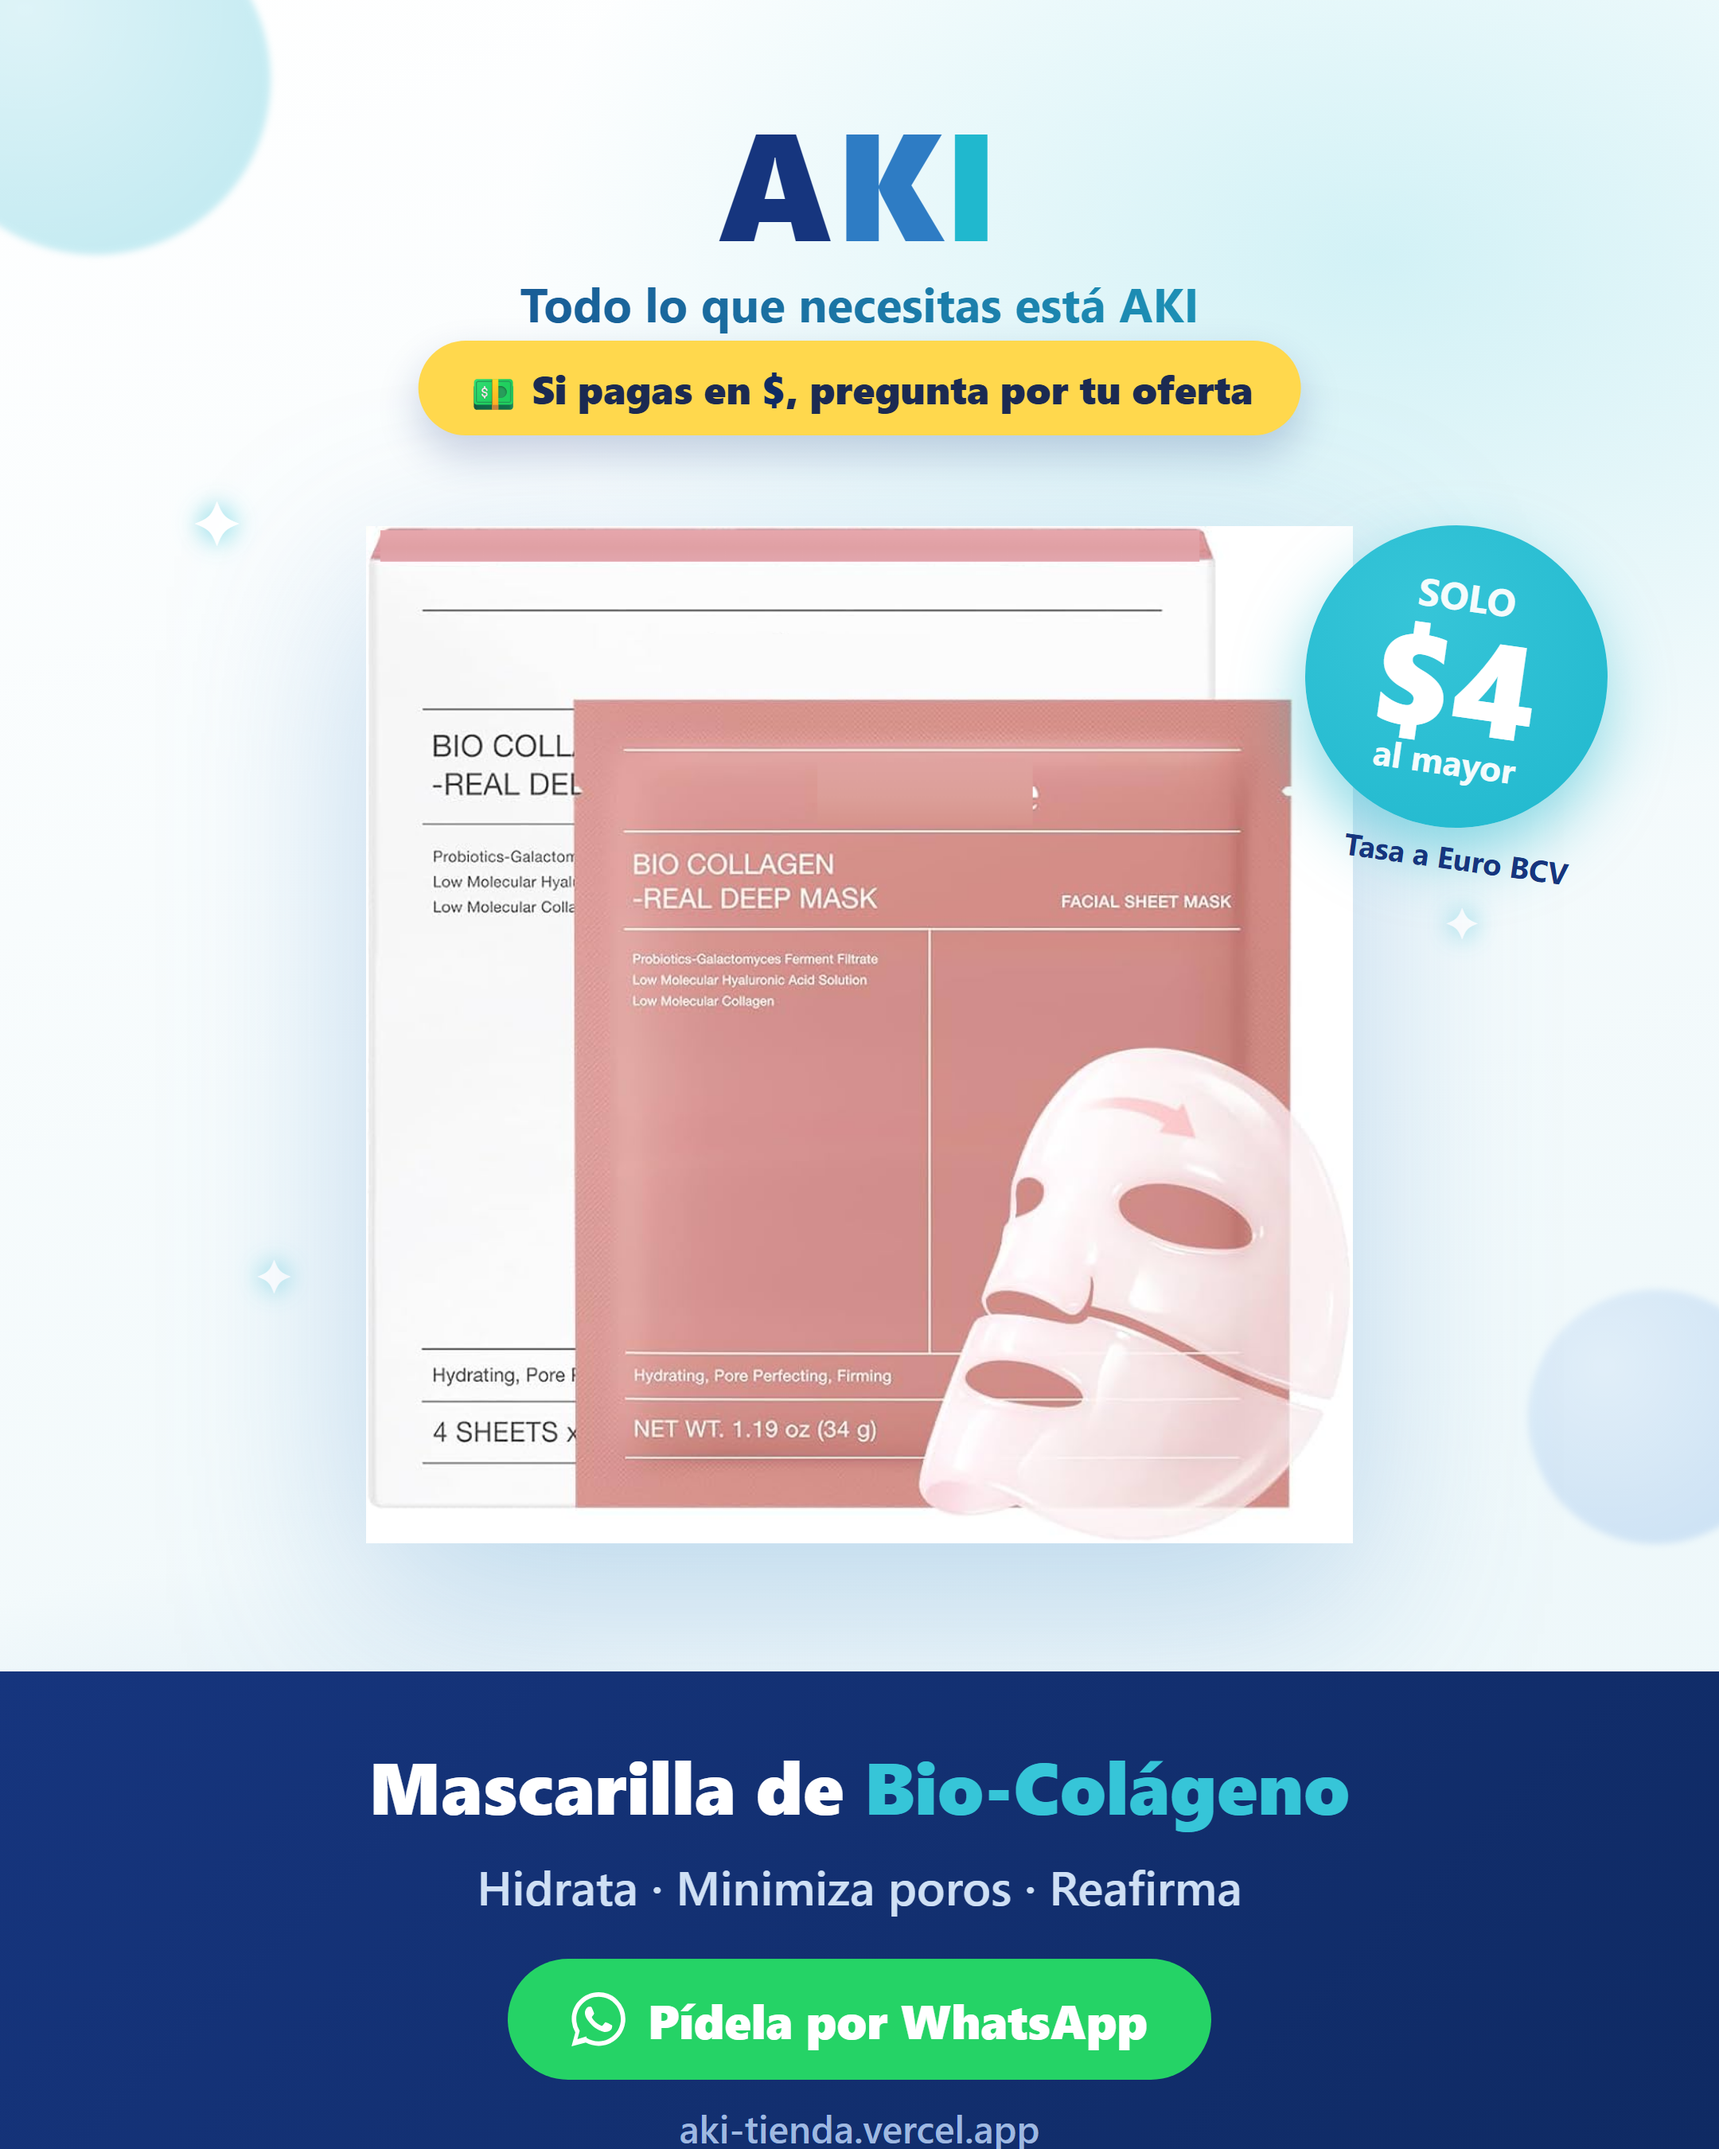
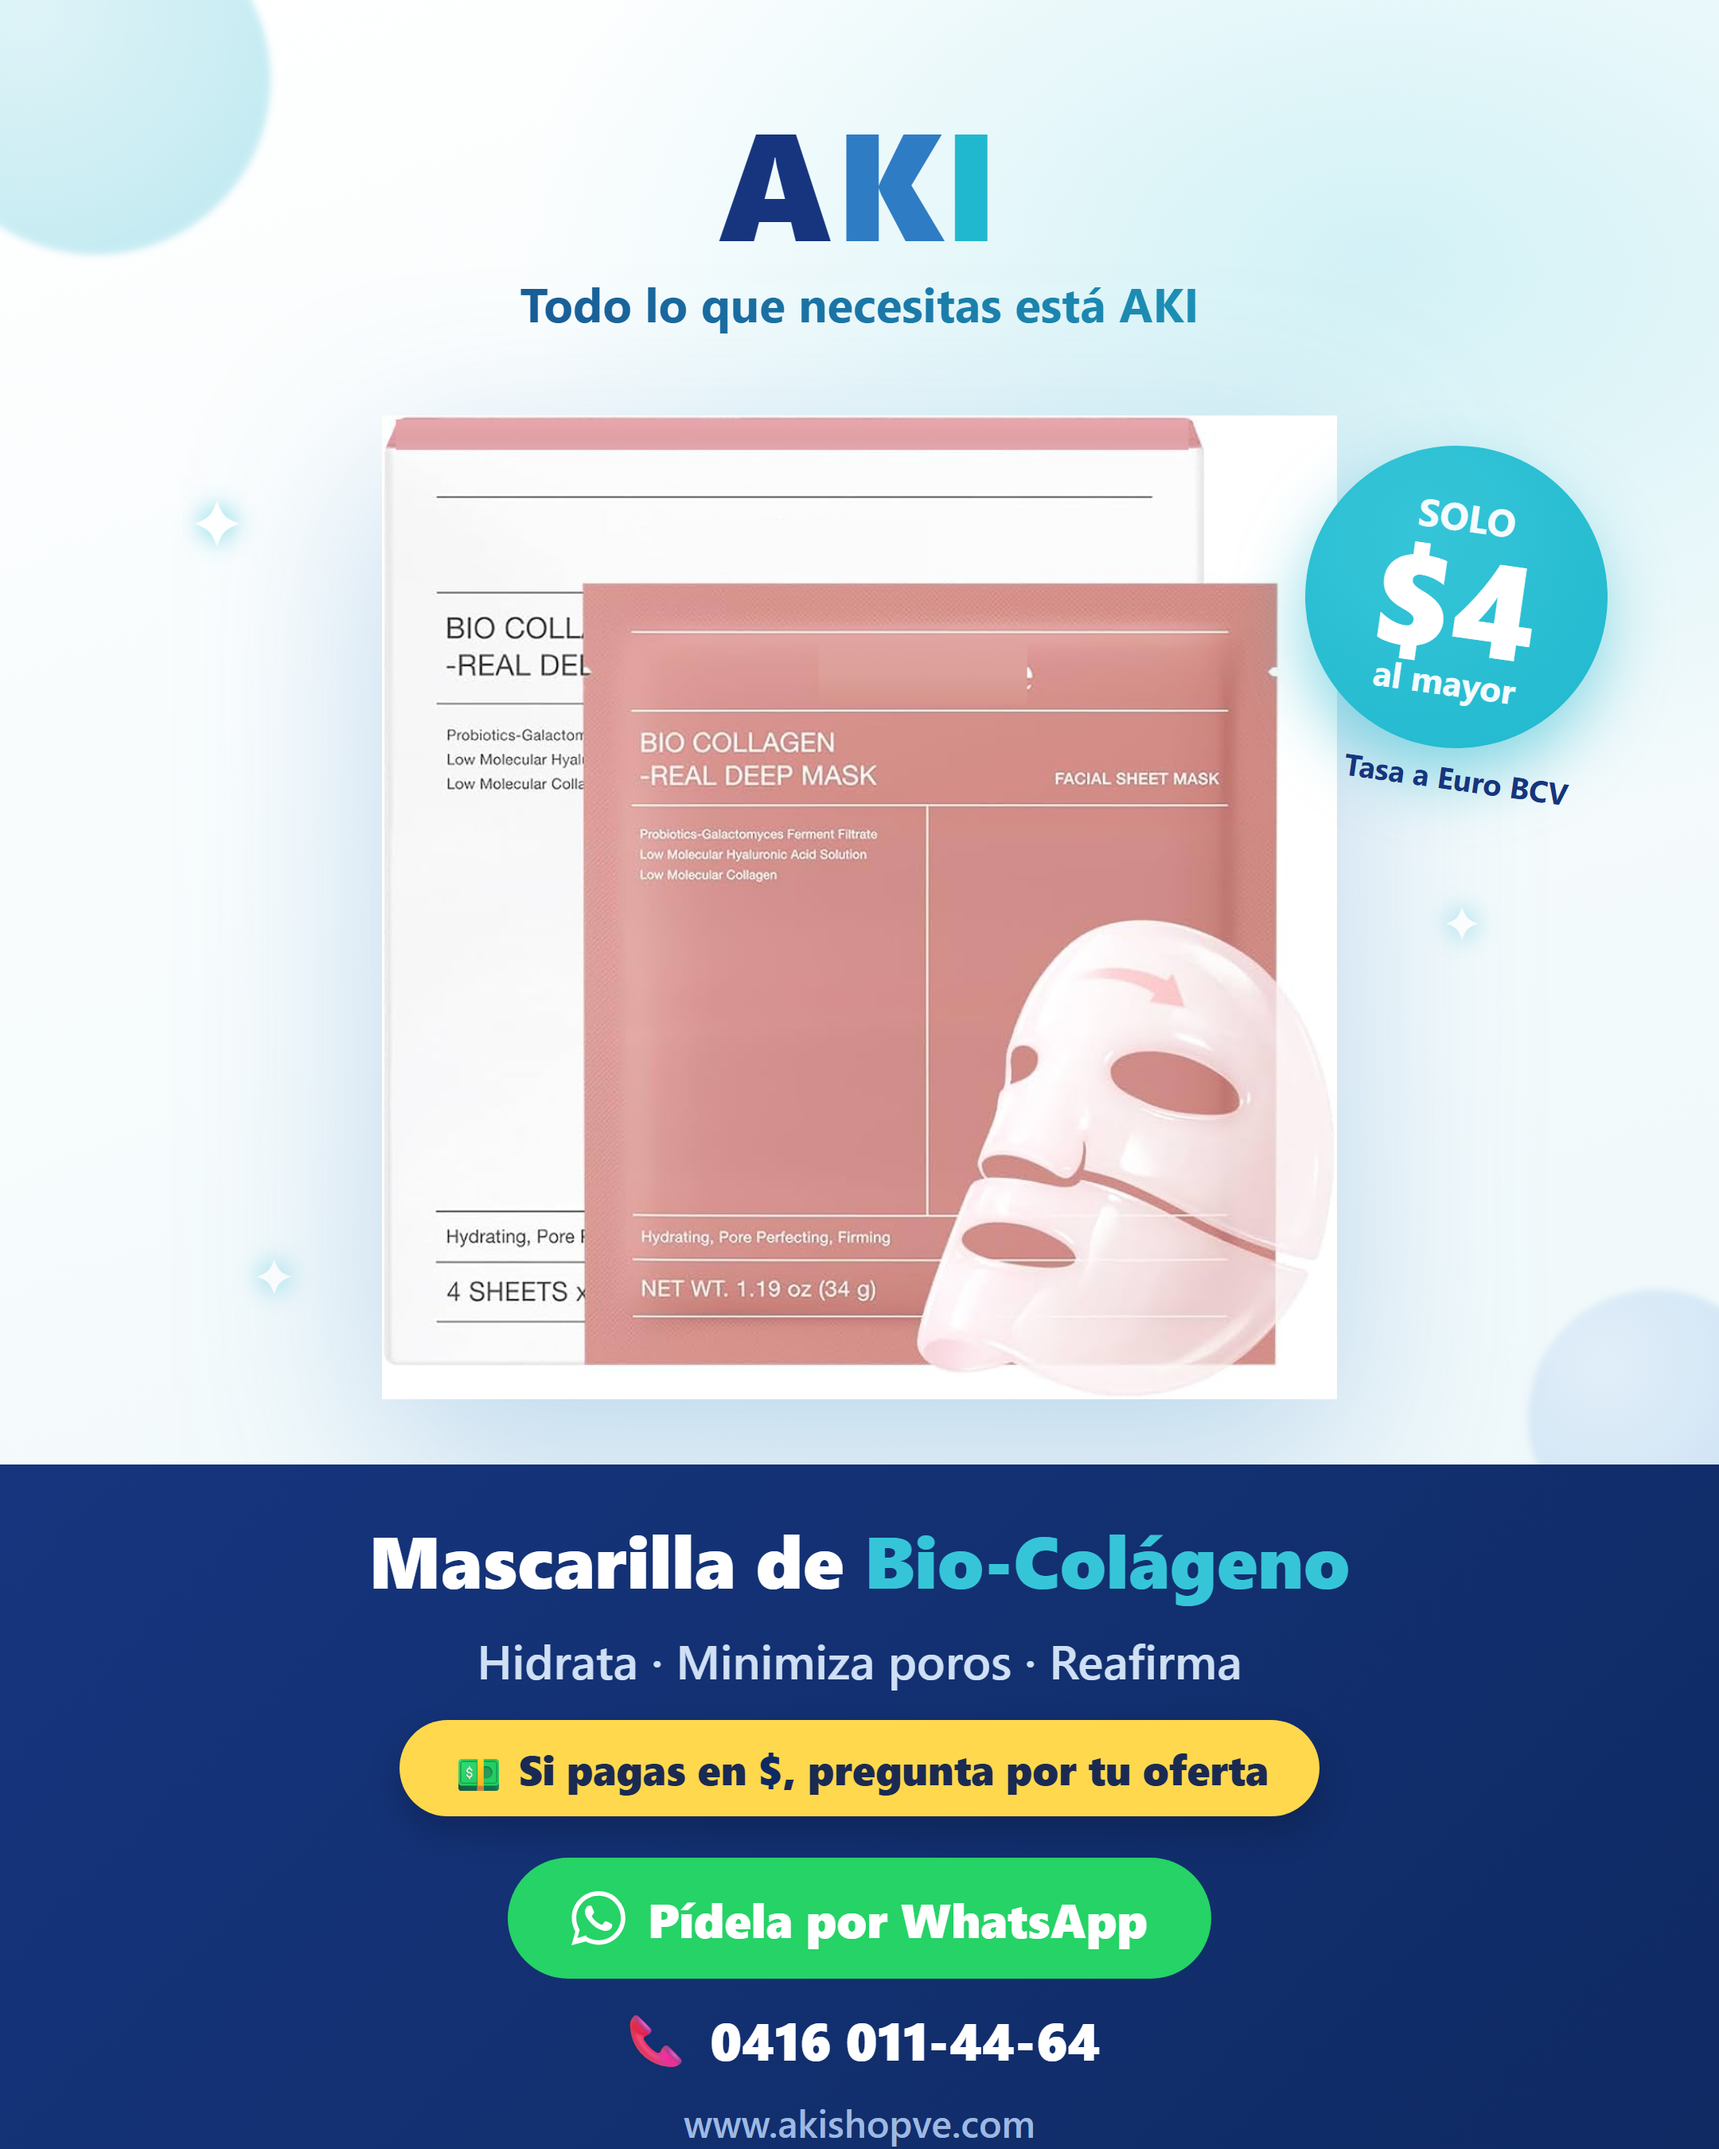
Post IG mascarilla: web akishopve.com + telefono + oferta (#4)

diff --git a/assets/instagram/mascarilla-post-mayor.html b/assets/instagram/mascarilla-post-mayor.html
@@ -31,8 +31,8 @@
     -webkit-background-clip:text;background-clip:text;color:transparent}
 
   /* product photo */
-  .stage{position:absolute;top:300px;left:50%;transform:translateX(-50%);
-    width:620px;height:700px;display:flex;align-items:center;justify-content:center}
+  .stage{position:absolute;top:250px;left:50%;transform:translateX(-50%);
+    width:600px;height:640px;display:flex;align-items:center;justify-content:center}
   .prodimg{max-width:100%;max-height:100%;object-fit:contain;
     filter:drop-shadow(0 38px 60px rgba(46,124,196,.28))}
 
@@ -40,7 +40,7 @@
   .spark{position:absolute;color:#fff;font-size:40px;text-shadow:0 0 16px rgba(54,197,216,.8)}
 
   /* price badge */
-  .price{position:absolute;top:330px;right:70px;width:190px;height:190px;border-radius:50%;
+  .price{position:absolute;top:280px;right:70px;width:190px;height:190px;border-radius:50%;
     background:radial-gradient(circle at 35% 30%,var(--light),var(--teal));
     box-shadow:0 18px 40px rgba(32,184,206,.5);transform:rotate(8deg);
     display:flex;flex-direction:column;align-items:center;justify-content:center;color:#fff;z-index:5}
@@ -49,9 +49,12 @@
   .price .u{font-size:22px;font-weight:700;opacity:.95;margin-top:-4px}
 
   /* bottom banner */
-  .banner{position:absolute;left:0;right:0;bottom:0;height:300px;
+  .banner{position:absolute;left:0;right:0;bottom:0;height:430px;
     background:linear-gradient(135deg,var(--navy),#0f2a63);color:#fff;
-    padding:46px 70px 0;text-align:center}
+    padding:34px 70px 0;text-align:center}
+  .phone{margin-top:16px;font-size:33px;font-weight:800;color:#fff;
+    display:flex;align-items:center;justify-content:center;gap:12px}
+  .phone .ic{color:#36C5D8}
   .pname{font-size:46px;font-weight:800;line-height:1.1}
   .pname span{color:var(--light)}
   .bens{margin-top:18px;font-size:30px;font-weight:600;color:#cfe0f5}
@@ -62,14 +65,13 @@
   .site{margin-top:14px;font-size:24px;color:#9fb8e0;font-weight:600}
   .note{margin-top:8px;font-size:20px;color:#7f9bc9;font-style:italic;font-weight:500}
 
-  /* letrero oferta en $ */
-  .offer{position:absolute;top:214px;left:50%;transform:translateX(-50%);z-index:6;
-    background:#FFD84D;color:#1b2a52;font-weight:800;font-size:25px;
-    padding:13px 30px;border-radius:999px;white-space:nowrap;
-    box-shadow:0 12px 26px rgba(22,53,126,.22)}
+  /* letrero oferta en $ (dentro del banner, encima del WhatsApp) */
+  .offer{display:inline-block;background:#FFD84D;color:#1b2a52;font-weight:800;font-size:26px;
+    padding:13px 32px;border-radius:999px;white-space:nowrap;margin-top:18px;
+    box-shadow:0 10px 22px rgba(0,0,0,.20)}
   .offer b{color:#0f2a63}
   /* tasa pequeña bajo el precio */
-  .tasa{position:absolute;top:526px;right:70px;width:190px;text-align:center;z-index:6;
+  .tasa{position:absolute;top:476px;right:70px;width:190px;text-align:center;z-index:6;
     font-size:19px;font-weight:700;color:#16357E;transform:rotate(8deg)}
 </style>
 </head>
@@ -91,8 +93,6 @@
     <img class="prodimg" src="biodance-clean.png" alt="Mascarilla Bio Collagen Real Deep Mask">
   </div>
 
-  <div class="offer">💵 Si pagas en <b>$</b>, pregunta por tu oferta</div>
-
   <div class="price">
     <div class="small">SOLO</div>
     <div class="big">$4</div>
@@ -103,11 +103,13 @@
   <div class="banner">
     <div class="pname">Mascarilla de <span>Bio-Colágeno</span></div>
     <div class="bens">Hidrata · Minimiza poros · Reafirma</div>
+    <div class="offer">💵 Si pagas en <b>$</b>, pregunta por tu oferta</div>
     <div class="cta">
       <svg viewBox="0 0 24 24"><path d="M.057 24l1.687-6.163a11.867 11.867 0 01-1.587-5.946C.16 5.335 5.495 0 12.05 0a11.817 11.817 0 018.413 3.488 11.824 11.824 0 013.48 8.414c-.003 6.557-5.338 11.892-11.893 11.892a11.9 11.9 0 01-5.688-1.448L.057 24zm6.597-3.807c1.676.995 3.276 1.591 5.392 1.592 5.448 0 9.886-4.434 9.889-9.885.002-5.462-4.415-9.89-9.881-9.892-5.452 0-9.887 4.434-9.889 9.884a9.86 9.86 0 001.51 5.26l-.999 3.648 3.978-1.207zm11.387-5.464c-.074-.124-.272-.198-.57-.347-.297-.149-1.758-.868-2.031-.967-.272-.099-.47-.149-.669.149-.198.297-.768.967-.941 1.165-.173.198-.347.223-.644.074-.297-.149-1.255-.462-2.39-1.475-.883-.788-1.48-1.761-1.653-2.059-.173-.297-.018-.458.13-.606.134-.133.298-.347.446-.521.149-.174.198-.298.298-.496.099-.198.05-.372-.025-.521-.074-.149-.669-1.611-.916-2.206-.242-.579-.487-.501-.669-.51l-.57-.01c-.198 0-.52.074-.792.372-.272.297-1.04 1.016-1.04 2.479 0 1.462 1.065 2.875 1.213 3.074.149.198 2.096 3.2 5.077 4.487.709.306 1.262.489 1.694.626.712.226 1.36.194 1.872.118.571-.085 1.758-.719 2.006-1.413.248-.694.248-1.289.173-1.413z"/></svg>
       Pídela por WhatsApp
     </div>
-    <div class="site">aki-tienda.vercel.app</div>
+    <div class="phone"><span class="ic">📞</span> 0416 011-44-64</div>
+    <div class="site">www.akishopve.com</div>
     <div class="note">* Al mayor: pedido mínimo 6 unidades</div>
   </div>
 </div>

diff --git a/assets/instagram/mascarilla-post.html b/assets/instagram/mascarilla-post.html
@@ -31,8 +31,8 @@
     -webkit-background-clip:text;background-clip:text;color:transparent}
 
   /* product photo */
-  .stage{position:absolute;top:300px;left:50%;transform:translateX(-50%);
-    width:620px;height:700px;display:flex;align-items:center;justify-content:center}
+  .stage{position:absolute;top:250px;left:50%;transform:translateX(-50%);
+    width:600px;height:640px;display:flex;align-items:center;justify-content:center}
   .prodimg{max-width:100%;max-height:100%;object-fit:contain;
     filter:drop-shadow(0 38px 60px rgba(46,124,196,.28))}
 
@@ -40,7 +40,7 @@
   .spark{position:absolute;color:#fff;font-size:40px;text-shadow:0 0 16px rgba(54,197,216,.8)}
 
   /* price badge */
-  .price{position:absolute;top:330px;right:70px;width:190px;height:190px;border-radius:50%;
+  .price{position:absolute;top:280px;right:70px;width:190px;height:190px;border-radius:50%;
     background:radial-gradient(circle at 35% 30%,var(--light),var(--teal));
     box-shadow:0 18px 40px rgba(32,184,206,.5);transform:rotate(8deg);
     display:flex;flex-direction:column;align-items:center;justify-content:center;color:#fff;z-index:5}
@@ -49,9 +49,12 @@
   .price .u{font-size:22px;font-weight:700;opacity:.95;margin-top:-4px}
 
   /* bottom banner */
-  .banner{position:absolute;left:0;right:0;bottom:0;height:300px;
+  .banner{position:absolute;left:0;right:0;bottom:0;height:430px;
     background:linear-gradient(135deg,var(--navy),#0f2a63);color:#fff;
-    padding:46px 70px 0;text-align:center}
+    padding:34px 70px 0;text-align:center}
+  .phone{margin-top:16px;font-size:33px;font-weight:800;color:#fff;
+    display:flex;align-items:center;justify-content:center;gap:12px}
+  .phone .ic{color:#36C5D8}
   .pname{font-size:46px;font-weight:800;line-height:1.1}
   .pname span{color:var(--light)}
   .bens{margin-top:18px;font-size:30px;font-weight:600;color:#cfe0f5}
@@ -62,14 +65,13 @@
   .site{margin-top:14px;font-size:24px;color:#9fb8e0;font-weight:600}
   .note{margin-top:8px;font-size:20px;color:#7f9bc9;font-style:italic;font-weight:500}
 
-  /* letrero oferta en $ */
-  .offer{position:absolute;top:214px;left:50%;transform:translateX(-50%);z-index:6;
-    background:#FFD84D;color:#1b2a52;font-weight:800;font-size:25px;
-    padding:13px 30px;border-radius:999px;white-space:nowrap;
-    box-shadow:0 12px 26px rgba(22,53,126,.22)}
+  /* letrero oferta en $ (dentro del banner, encima del WhatsApp) */
+  .offer{display:inline-block;background:#FFD84D;color:#1b2a52;font-weight:800;font-size:26px;
+    padding:13px 32px;border-radius:999px;white-space:nowrap;margin-top:18px;
+    box-shadow:0 10px 22px rgba(0,0,0,.20)}
   .offer b{color:#0f2a63}
   /* tasa pequeña bajo el precio */
-  .tasa{position:absolute;top:526px;right:70px;width:190px;text-align:center;z-index:6;
+  .tasa{position:absolute;top:476px;right:70px;width:190px;text-align:center;z-index:6;
     font-size:19px;font-weight:700;color:#16357E;transform:rotate(8deg)}
 </style>
 </head>
@@ -91,8 +93,6 @@
     <img class="prodimg" src="biodance-clean.png" alt="Mascarilla Bio Collagen Real Deep Mask">
   </div>
 
-  <div class="offer">💵 Si pagas en <b>$</b>, pregunta por tu oferta</div>
-
   <div class="price">
     <div class="small">SOLO</div>
     <div class="big">$6</div>
@@ -103,11 +103,13 @@
   <div class="banner">
     <div class="pname">Mascarilla de <span>Bio-Colágeno</span></div>
     <div class="bens">Hidrata · Minimiza poros · Reafirma</div>
+    <div class="offer">💵 Si pagas en <b>$</b>, pregunta por tu oferta</div>
     <div class="cta">
       <svg viewBox="0 0 24 24"><path d="M.057 24l1.687-6.163a11.867 11.867 0 01-1.587-5.946C.16 5.335 5.495 0 12.05 0a11.817 11.817 0 018.413 3.488 11.824 11.824 0 013.48 8.414c-.003 6.557-5.338 11.892-11.893 11.892a11.9 11.9 0 01-5.688-1.448L.057 24zm6.597-3.807c1.676.995 3.276 1.591 5.392 1.592 5.448 0 9.886-4.434 9.889-9.885.002-5.462-4.415-9.89-9.881-9.892-5.452 0-9.887 4.434-9.889 9.884a9.86 9.86 0 001.51 5.26l-.999 3.648 3.978-1.207zm11.387-5.464c-.074-.124-.272-.198-.57-.347-.297-.149-1.758-.868-2.031-.967-.272-.099-.47-.149-.669.149-.198.297-.768.967-.941 1.165-.173.198-.347.223-.644.074-.297-.149-1.255-.462-2.39-1.475-.883-.788-1.48-1.761-1.653-2.059-.173-.297-.018-.458.13-.606.134-.133.298-.347.446-.521.149-.174.198-.298.298-.496.099-.198.05-.372-.025-.521-.074-.149-.669-1.611-.916-2.206-.242-.579-.487-.501-.669-.51l-.57-.01c-.198 0-.52.074-.792.372-.272.297-1.04 1.016-1.04 2.479 0 1.462 1.065 2.875 1.213 3.074.149.198 2.096 3.2 5.077 4.487.709.306 1.262.489 1.694.626.712.226 1.36.194 1.872.118.571-.085 1.758-.719 2.006-1.413.248-.694.248-1.289.173-1.413z"/></svg>
       Pídela por WhatsApp
     </div>
-    <div class="site">aki-tienda.vercel.app</div>
+    <div class="phone"><span class="ic">📞</span> 0416 011-44-64</div>
+    <div class="site">www.akishopve.com</div>
     <div class="note">* Precio al mayor desde 6 unidades</div>
   </div>
 </div>
